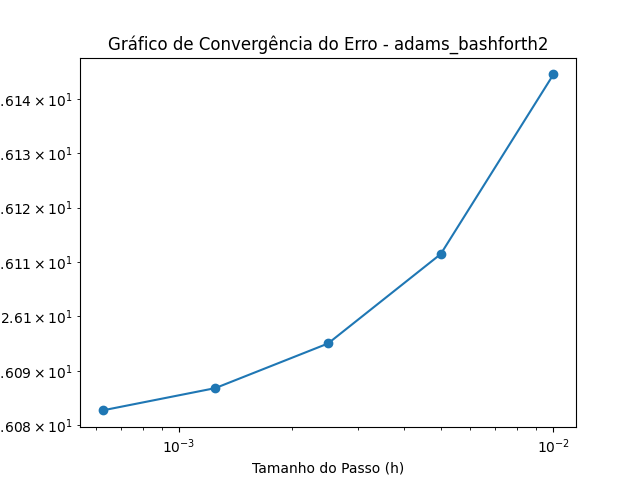
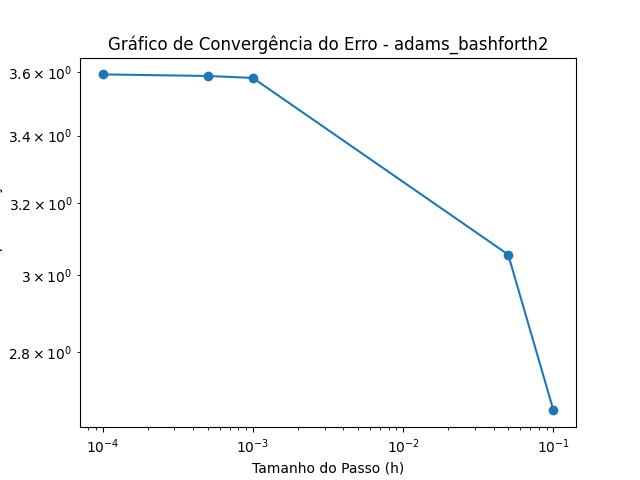
tempos

diff --git a/02/Metodos.py b/02/Metodos.py
@@ -4,6 +4,7 @@ from scipy.special import ellipj
 from scipy.special import ellipk
 from scipy.optimize import newton
 import os
+import time
 
 
 class Metodos:
@@ -17,8 +18,6 @@ class Metodos:
 
         self.u_ref = self.sol_referencia()
 
-        self.u_ref = self.sol_referencia()
-
         self.t_euler_e, self.u_euler_e = self.euler_explicito(
             t0, u0, h, num_passos)
         self.t_taylor_2, self.u_taylor_2 = self.taylor_2(t0, u0, h, num_passos)
@@ -27,15 +26,16 @@ class Metodos:
             t0, u0, h, num_passos)
         self.t_PC, self.u_PC = self.preditor_corretor(t0, u0, h, num_passos)
 
-        self.metodos_lista_nomes = ["euler_explicito", "taylor_2",
-                                    "adams_bashforth2", "euler_implicito", "preditor_corretor"]
-        self.metodos_lista = [self.euler_explicito, self.taylor_2,
-                              self.adams_bashforth2, self.euler_implicito, self.preditor_corretor]
+        self.metodos_dict = {"euler_explicito": self.euler_explicito, "taylor_2": self.taylor_2,
+                             "adams_bashforth2": self.adams_bashforth2, "euler_implicito": self.euler_implicito,
+                             "preditor_corretor": self.preditor_corretor}
 
-        for i in range(len(self.metodos_lista)):
-            self.plot_vel_pos(self.metodos_lista_nomes[i])
-            self.erros_metodos(
-                self.metodos_lista[i], self.metodos_lista_nomes[i])
+        # self.tempos_execucao()
+
+        # for i in self.metodos_dict.keys():
+        #     self.plot_vel_pos(i)
+        #     self.erros_metodos(self.metodos_dict[i], i)
+        #     self.plot_grafico_fase(self.metodos_dict[i], i)
 
         return
 
@@ -322,8 +322,9 @@ class Metodos:
         return None
 
     def erros_metodos(self, metodo, titulo):
+
         # Parâmetros da simulação
-        h_values = [0.01, 0.005, 0.0025, 0.00125, 0.000625]
+        h_values = [0.1, 0.05, 0.001, 0.0005, 0.0001]
 
         # Cálculo e plotagem da ordem de convergência temporal para o método de Euler explícito
         error_list = []
@@ -356,24 +357,69 @@ class Metodos:
         Returns:
             Lista contendo os valores do erro absoluto.
         """
-        return np.linalg.norm(y_exact - y_approx)
 
-    def plot_convergence_order(errors, step_sizes):
-        """
-        Plota o gráfico do logaritmo do erro em função do logaritmo do tamanho do passo.
+        # # Calculando o erro
+        erro_absoluto = np.abs(y_exact - y_approx)
 
-        Args:
-            errors: Lista contendo os valores do erro absoluto.
-            step_sizes: Lista contendo os tamanhos do passo correspondentes.
+        # Calculando a norma máxima
+        norma_max = np.amax(np.abs(erro_absoluto))
 
-        Returns:
-            None
-        """
-        plt.loglog(step_sizes, errors, 'o-', label='Erro')
+        # Calculando o erro relativo
+        erro_relativo = norma_max / np.amax(y_exact - y_approx)
 
-        # Ajusta a escala do gráfico
-        plt.xlabel('Tamanho do Passo (h)')
-        plt.ylabel('Erro Absoluto')
-        plt.grid(True)
+        return erro_relativo
+
+    def plot_grafico_fase(self, metodo, titulo):
+
+        t, u = metodo(self.t0, self.u0, self.h, self.num_passos)
+
+        # Plotando o gráfico de fase
+        plt.figure(figsize=(10, 6))
+        plt.plot(u[:][0], u[:][1], label=titulo)
+
+        plt.xlabel('Posição Angular (u[1])')
+        plt.ylabel('Velocidade Angular (u[2]')
+        plt.title('Gráfico de Fase')
         plt.legend()
-        plt.show()
+        plt.grid(True)
+
+        if not os.path.exists('graficos_fase'):
+            os.makedirs('graficos_fase')
+        plt.savefig('graficos_fase/' + titulo + '.png')
+        plt.close()
+
+    def tempos_execucao(self):
+        h_values = [0.01, 0.001, 0.0001]
+
+        tempos = {"euler_explicito": [], "taylor_2": [],
+                  "adams_bashforth2":  [], "euler_implicito": [],
+                  "preditor_corretor":  []}
+
+        for i in h_values:
+            for metodo in self.metodos_dict.keys():
+                start = time.time()
+                self.metodos_dict[metodo](self.t0, self.u0, i, self.num_passos)
+                end = time.time()
+                tempos[metodo].append(end - start)
+
+        # Plotando o gráfico
+        plt.figure(figsize=(8, 6))
+
+        for method, times in tempos.items():
+            plt.scatter(h_values, times, label=method)
+
+        plt.xlabel('Tamanho do Passo de Tempo (h)')
+        plt.ylabel('Tempo de Execução (s)')
+        plt.title('Tempo de Execução em Função do Tamanho do Passo de Tempo')
+        plt.legend()
+        plt.grid(True)
+
+        if not os.path.exists('tempos_execucoes'):
+            os.makedirs('tempos_execucoes')
+        plt.savefig('tempos_execucoes/tempos.png')
+        plt.close()
+
+        return
+
+    def cuzinho():
+        pass

diff --git a/02/main.py b/02/main.py
@@ -5,13 +5,10 @@ t0 = 0
 # Condição inicial u(0) = [u1(0), u2(0)]
 u0 = np.array([np.pi/4, 0])
 # Tamanho do passo
-h = 0.1
+h = 0.01
 # Número de passos
 num_passos = 300
 
 metodos = Metodos(t0, u0, h, num_passos)
 
-# Solução exata
 metodos.print_resultados()
-
-# ==========================================
